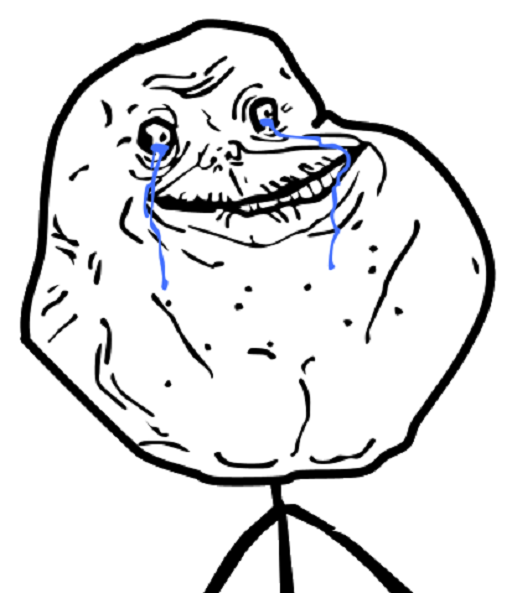
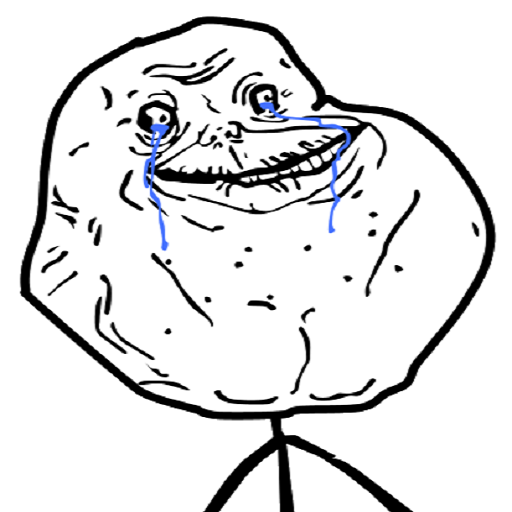
posible fix

diff --git a/Assets/Scripts/Enemigos/EnemyFace.cs b/Assets/Scripts/Enemigos/EnemyFace.cs
@@ -15,6 +15,7 @@ public class EnemyFace : MonoBehaviour
        {
             RandoMemeNu = Random.Range(0, PosiblesMemes.Length - 1);
             ImageMeme.GetComponent<SpriteRenderer>().sprite = PosiblesMemes[RandoMemeNu];
+            SpriteRenderer.sprite.transform.localScale = new Vector3(512, 512, 512);
        }
     }
 }
